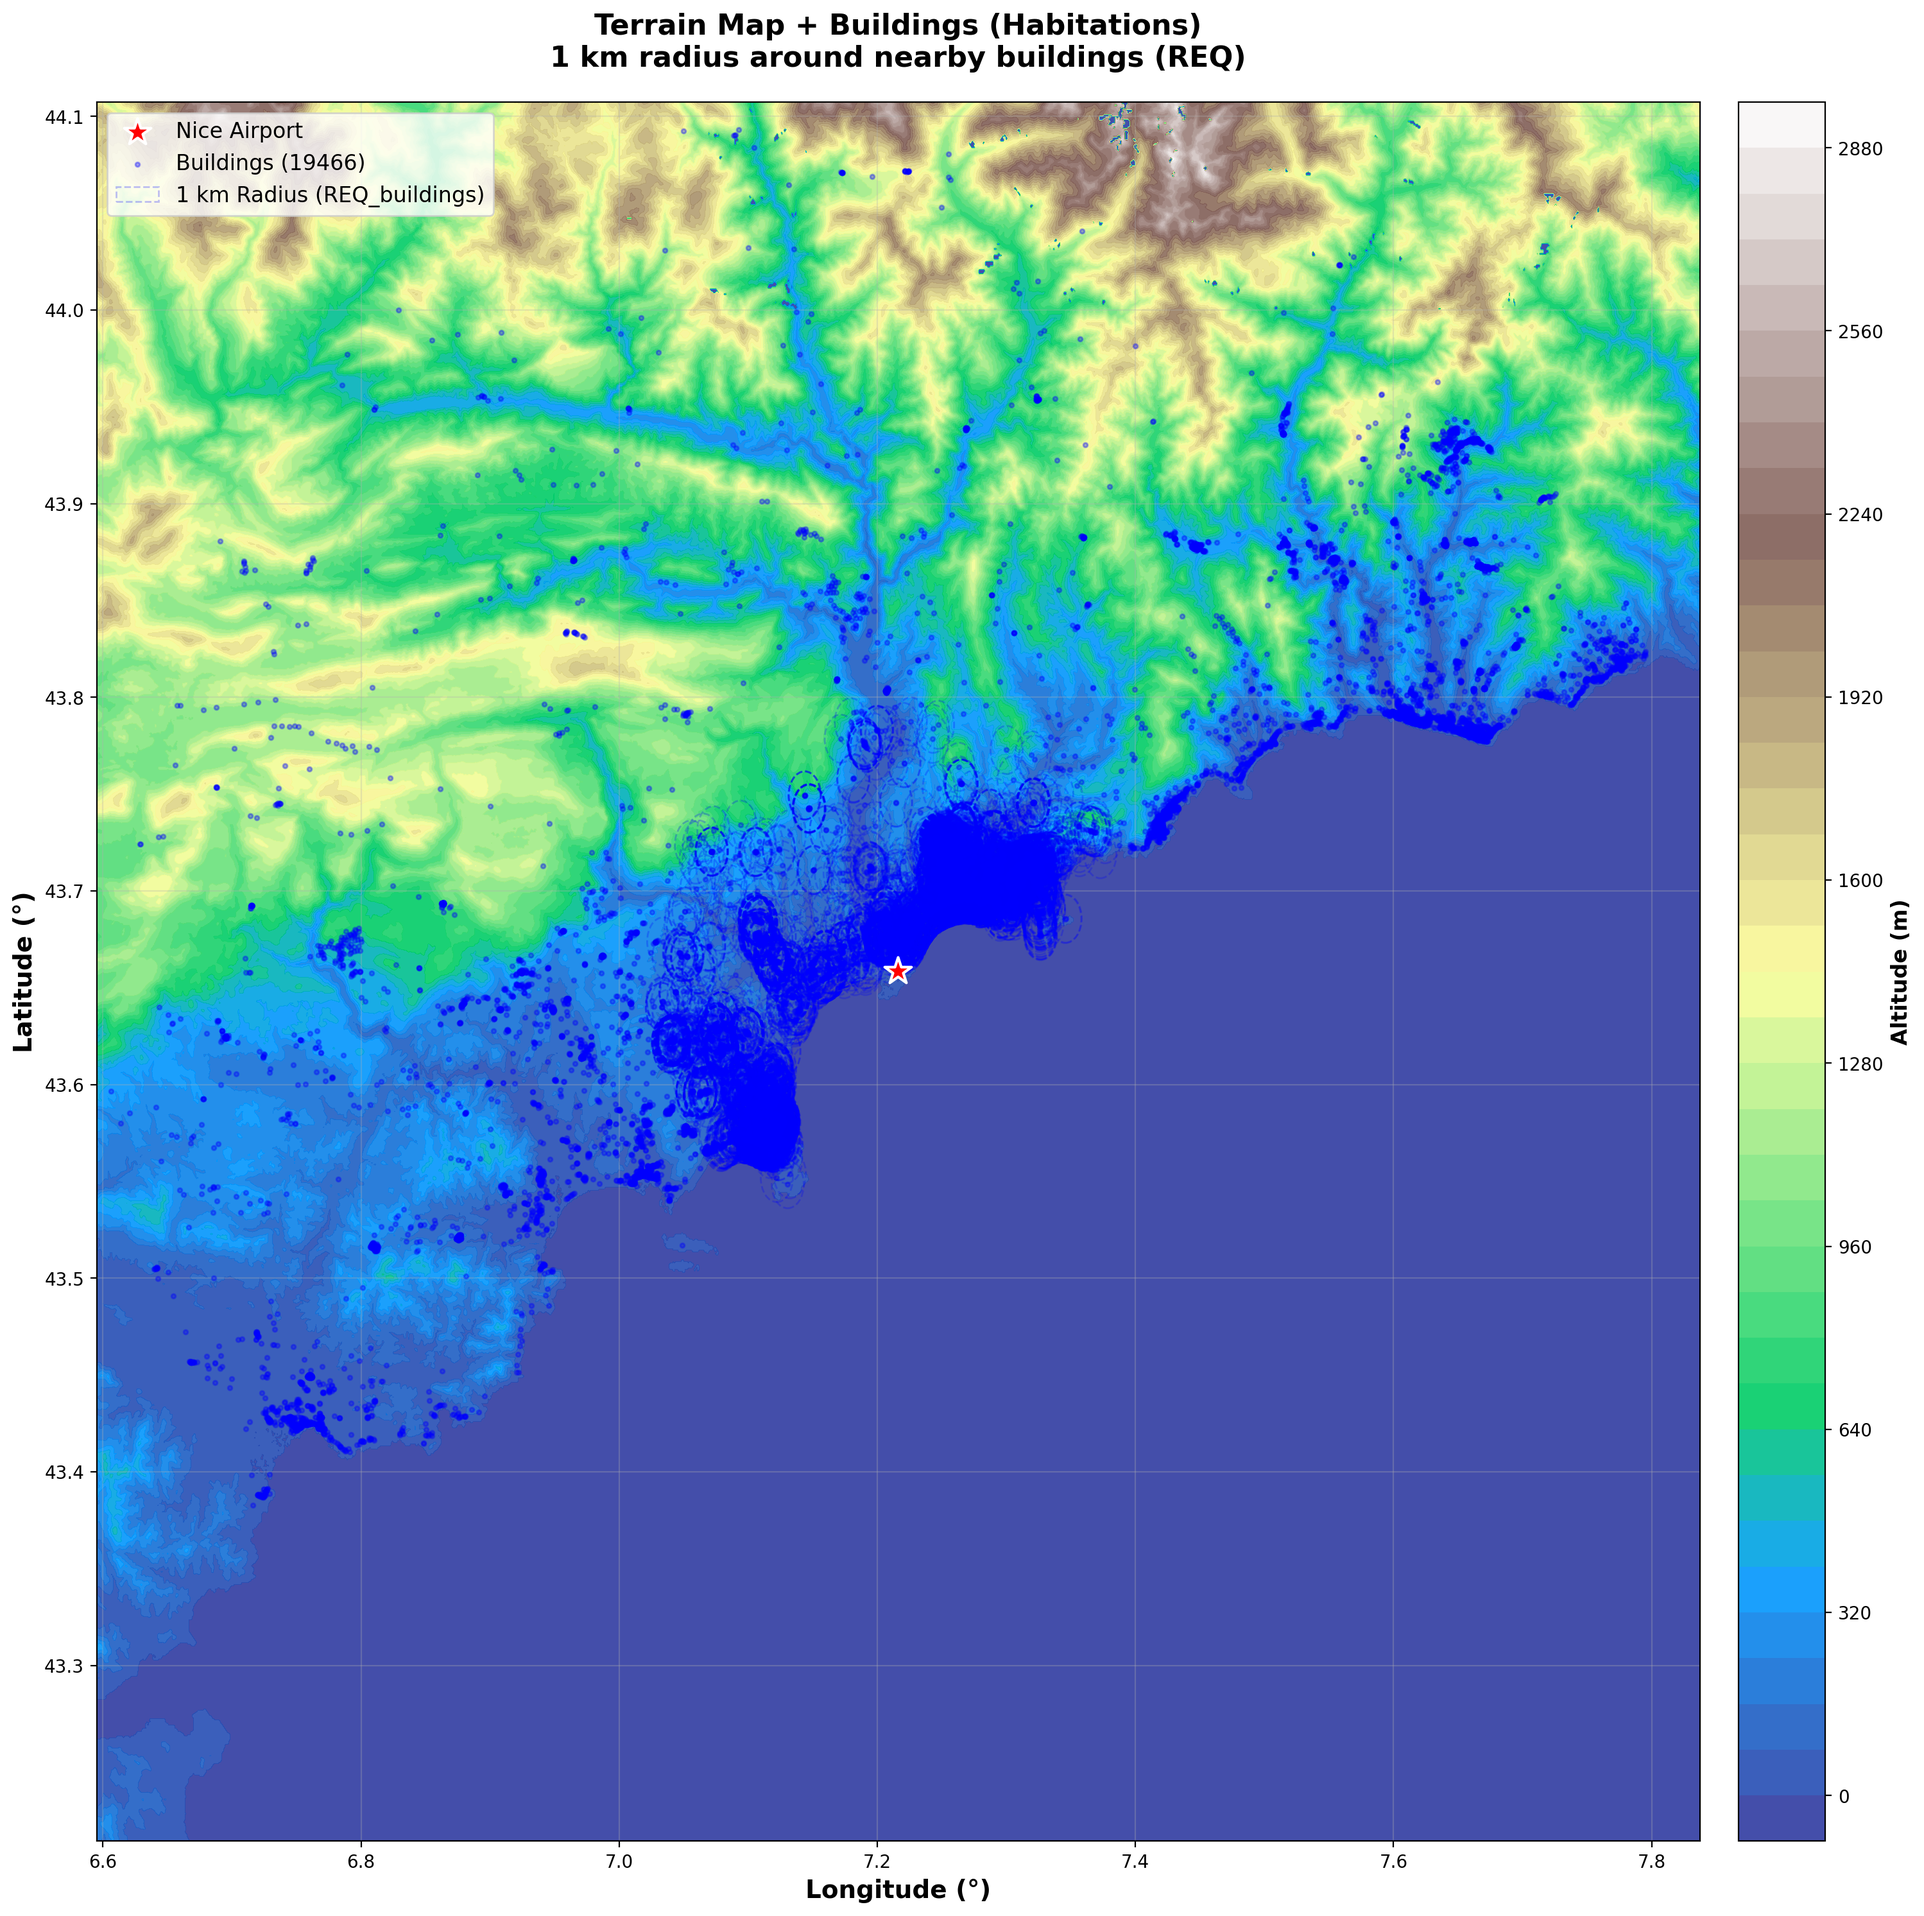
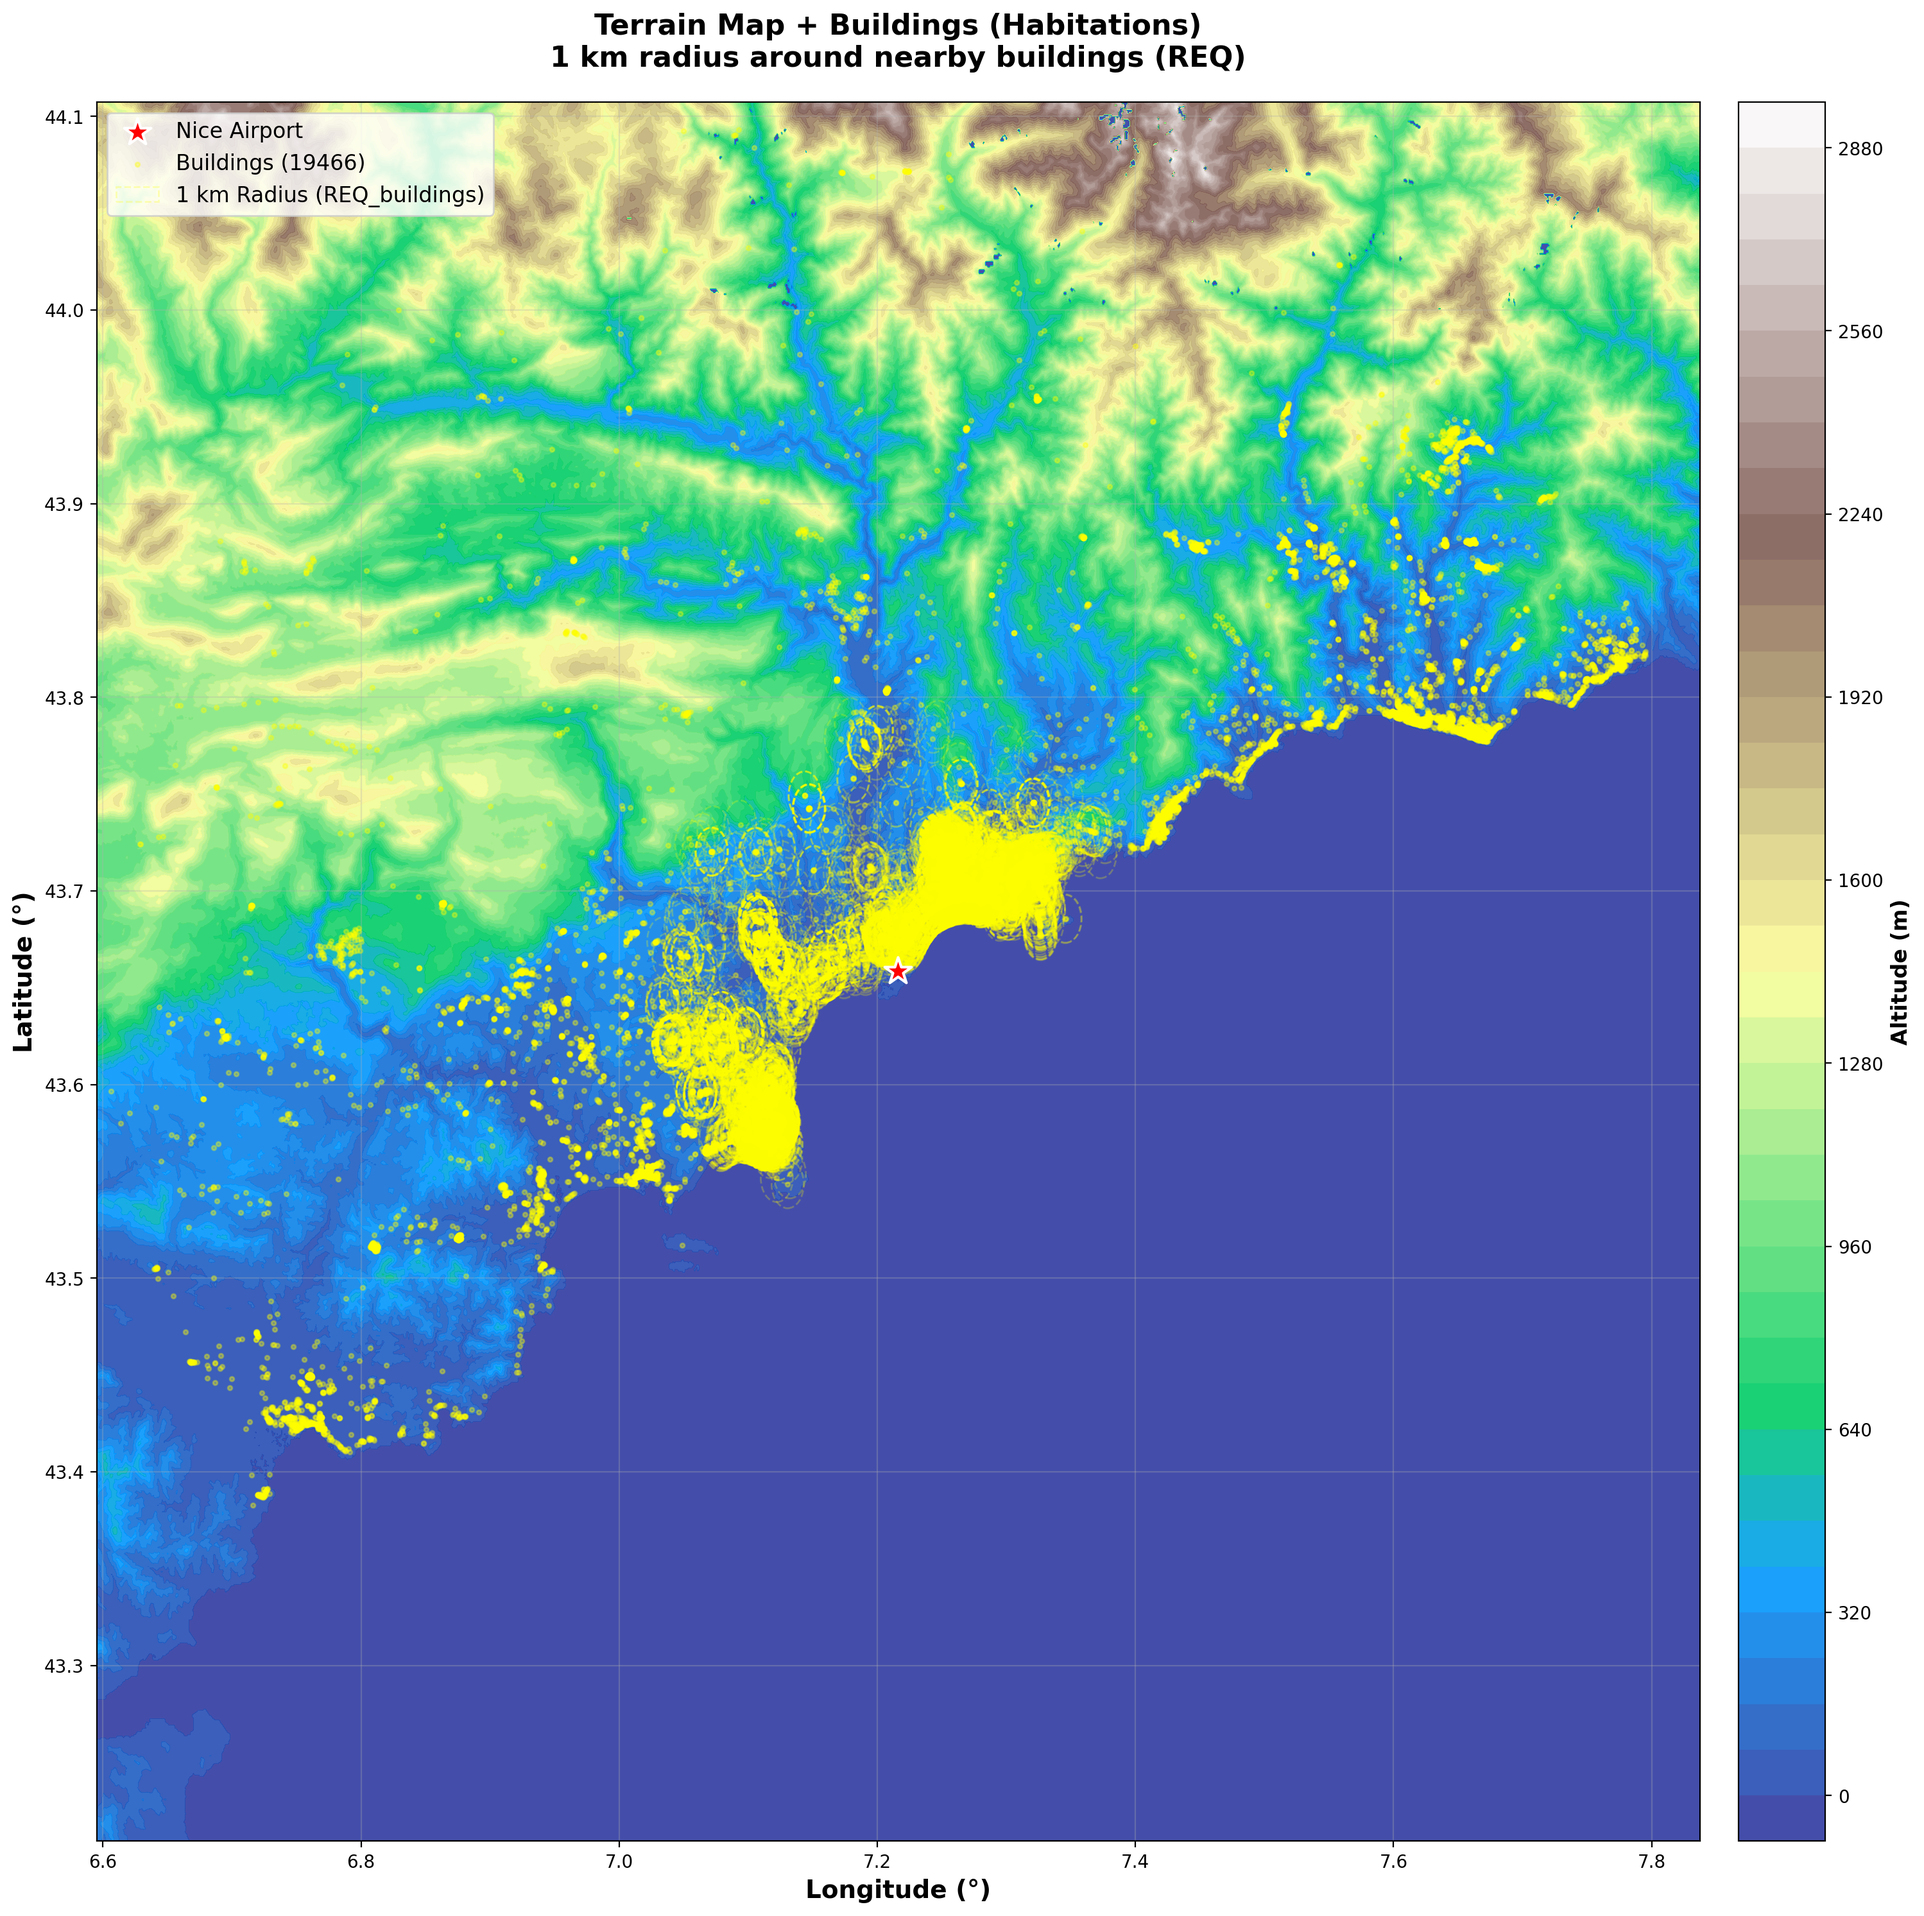
Yellow for buildings

diff --git a/buildings.py b/buildings.py
@@ -201,7 +201,7 @@ plt.scatter([NICE_AIRPORT_LON], [NICE_AIRPORT_LAT],
             linewidth=1.5, label='Nice Airport', zorder=10)
 
 # Buildings points
-plt.scatter(lon_arr, lat_arr, s=6, color='blue', alpha=0.35,
+plt.scatter(lon_arr, lat_arr, s=6, color='yellow', alpha=0.35,
             label=f'Buildings ({len(buildings)})', zorder=9)
 
 # Circles (limited to nearby buildings)
@@ -214,13 +214,13 @@ for i, b in enumerate(buildings_for_circles):
     if i == 0:
         circle = Circle((b['lon'], b['lat']),
                         radius_deg_lon,
-                        fill=False, edgecolor='blue', linestyle='--',
+                        fill=False, edgecolor='yellow', linestyle='--',
                         linewidth=1, alpha=0.25,
                         label='1 km Radius (REQ_buildings)', zorder=8)
     else:
         circle = Circle((b['lon'], b['lat']),
                         radius_deg_lon,
-                        fill=False, edgecolor='blue', linestyle='--',
+                        fill=False, edgecolor='yellow', linestyle='--',
                         linewidth=1, alpha=0.25, zorder=8)
     ax.add_patch(circle)
 
@@ -268,7 +268,7 @@ lats_zoom = lats[lat_mask]
 lons_zoom = lons[lon_mask]
 lon_grid_zoom, lat_grid_zoom = np.meshgrid(lons_zoom, lats_zoom)
 
-plt.figure(figsize=(16, 15))
+plt.figure(figsize=(18, 16))
 
 # Terrain zoom
 contour = plt.contourf(lon_grid_zoom, lat_grid_zoom, Z_zoom, levels=40, cmap='terrain', alpha=0.9)
@@ -283,7 +283,7 @@ plt.scatter([NICE_AIRPORT_LON], [NICE_AIRPORT_LAT],
 # Buildings nearby
 near_lon = np.array([b['lon'] for b in nearby], dtype=float)
 near_lat = np.array([b['lat'] for b in nearby], dtype=float)
-plt.scatter(near_lon, near_lat, s=10, color='blue', alpha=0.45,
+plt.scatter(near_lon, near_lat, s=10, color='yellow', alpha=0.45,
             label=f'Buildings (<10 km) ({len(nearby)})', zorder=9)
 
 # Circles for all nearby buildings (zoom)
@@ -293,13 +293,13 @@ for i, b in enumerate(nearby):
     if i == 0:
         circle = Circle((b['lon'], b['lat']),
                         radius_deg_lon,
-                        fill=False, edgecolor='blue', linestyle='--',
+                        fill=False, edgecolor='yellow', linestyle='--',
                         linewidth=1, alpha=0.25,
                         label='1 km Radius (REQ_buildings)', zorder=8)
     else:
         circle = Circle((b['lon'], b['lat']),
                         radius_deg_lon,
-                        fill=False, edgecolor='blue', linestyle='--',
+                        fill=False, edgecolor='yellow', linestyle='--',
                         linewidth=1, alpha=0.25, zorder=8)
     ax.add_patch(circle)
 
